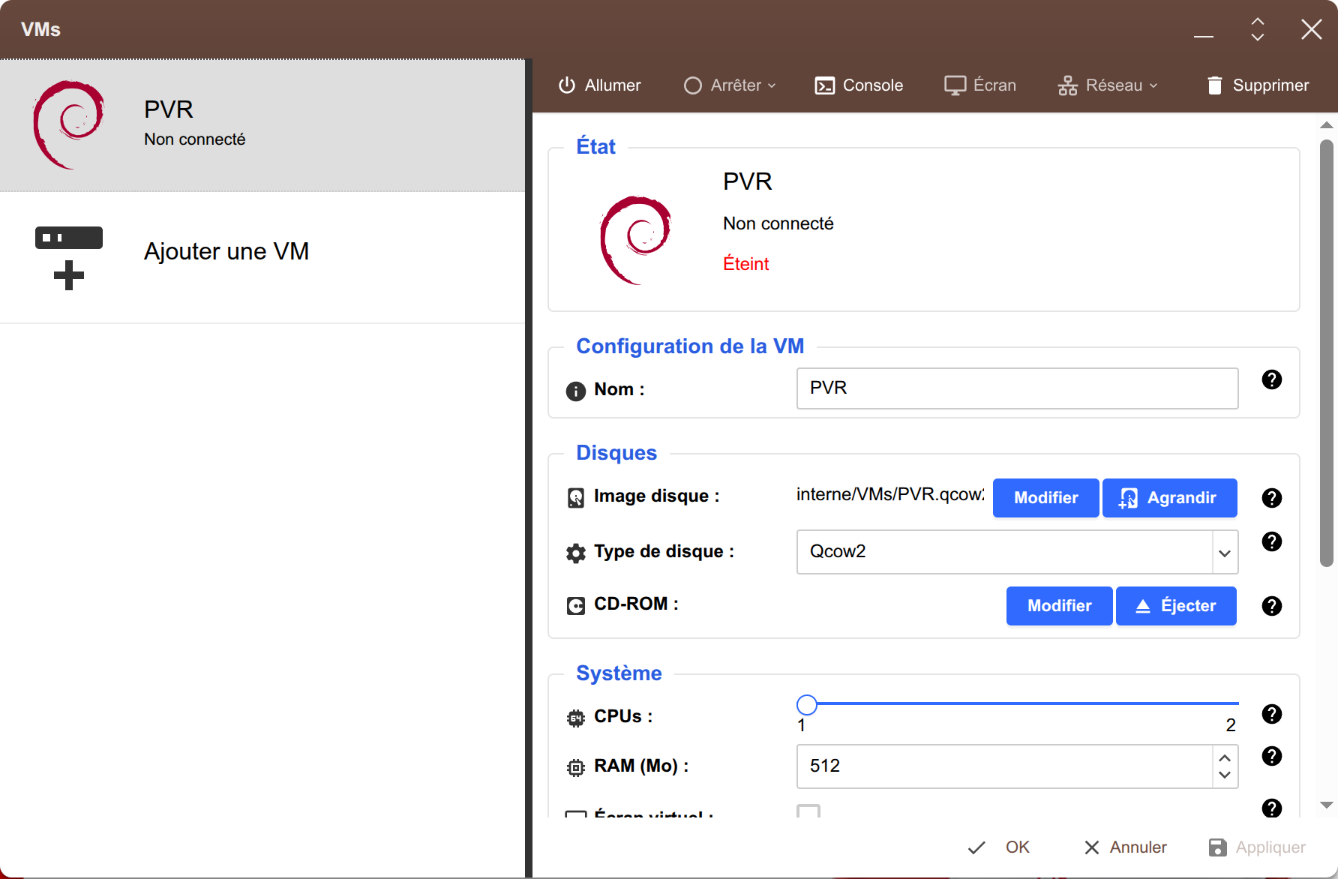
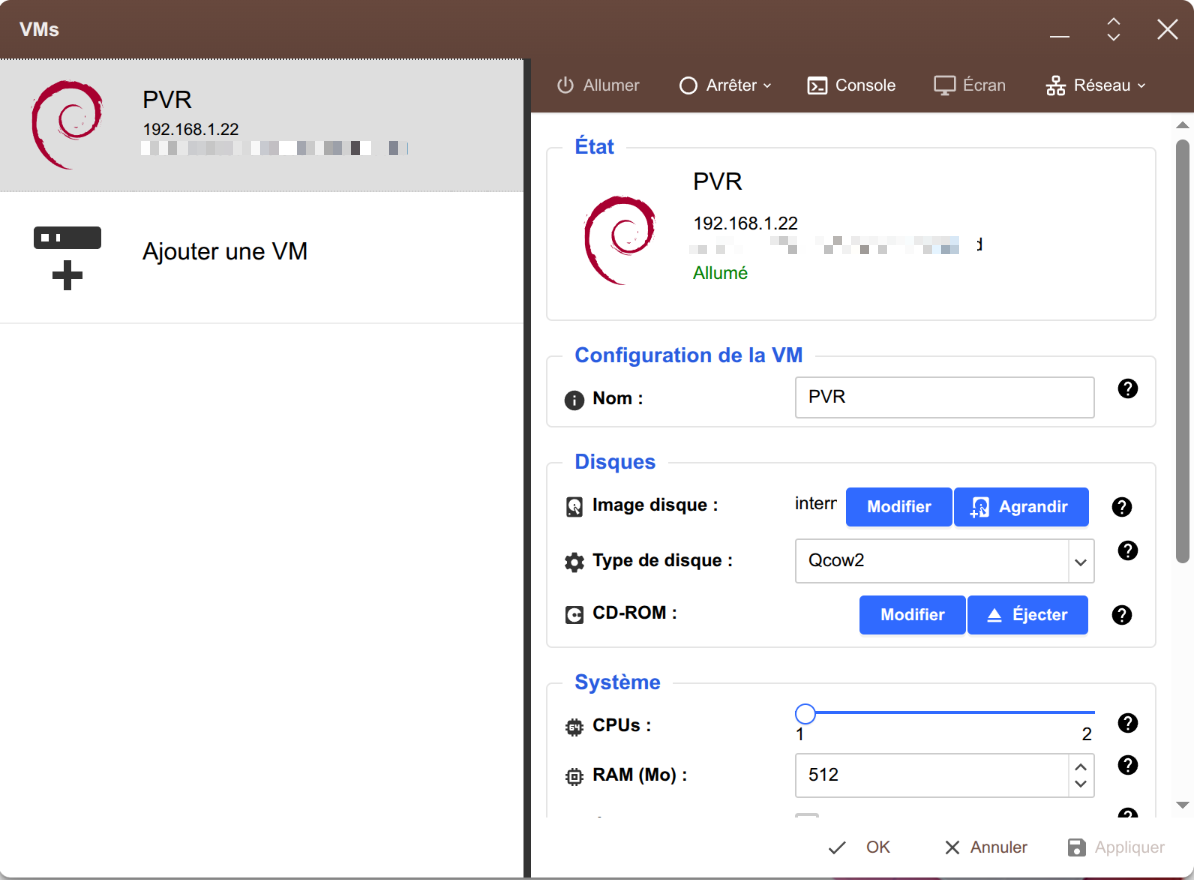
README: running VM screenshot showing where its address is

diff --git a/README.md b/README.md
@@ -81,16 +81,16 @@ la vidéo) et le résultat est affiché dans la page.
 5. Démarrez la VM. Elle s'installe toute seule : environ 2 minutes sur Ultra, 10 minutes sur
    Delta.
 6. La Freebox donne automatiquement une adresse à la VM : vous la retrouvez dans Freebox OS
-   (fenêtre VMs, ou liste des appareils du réseau). Elle change rarement, mais elle peut
-   changer, par exemple après une longue extinction.
+   (fenêtre VMs, sous le nom de la VM). Elle change rarement, mais elle peut changer, par
+   exemple après une longue extinction.
+
+   ![VM allumée, son adresse sous son nom](docs/img/05-vm-creee.png)
 
    Facultatif, si vous gardez la page en favori : fixez cette adresse dans la fenêtre VMs,
    menu **Réseau > Configurer un bail DHCP**. Choisissez une adresse **en dehors** de la
    plage distribuée automatiquement, sinon un autre appareil peut déjà l'occuper, et deux
    appareils sur la même adresse coupent les enregistrements. Redémarrez ensuite la VM
    pour qu'elle la prenne.
-
-   ![La VM créée, menu Réseau en haut](docs/img/05-vm-creee.png)
 
    ![Menu Réseau > Configurer un bail DHCP](docs/img/06-bail-dhcp.png)
 
